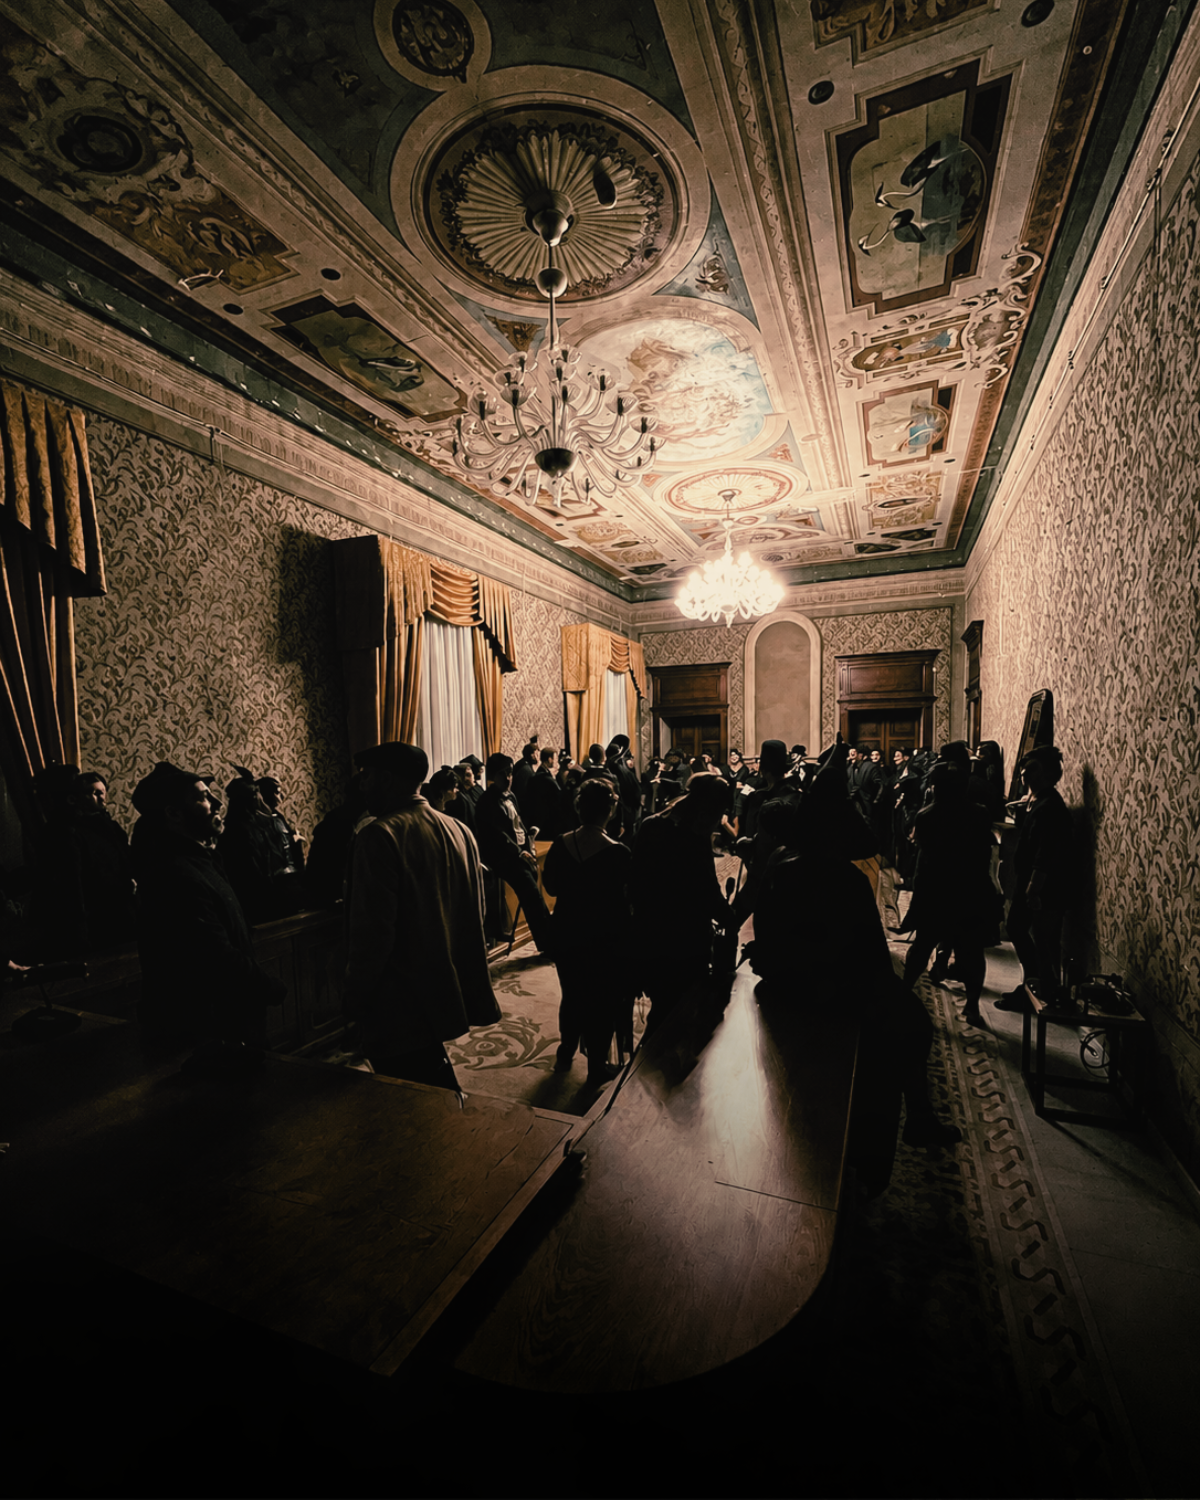
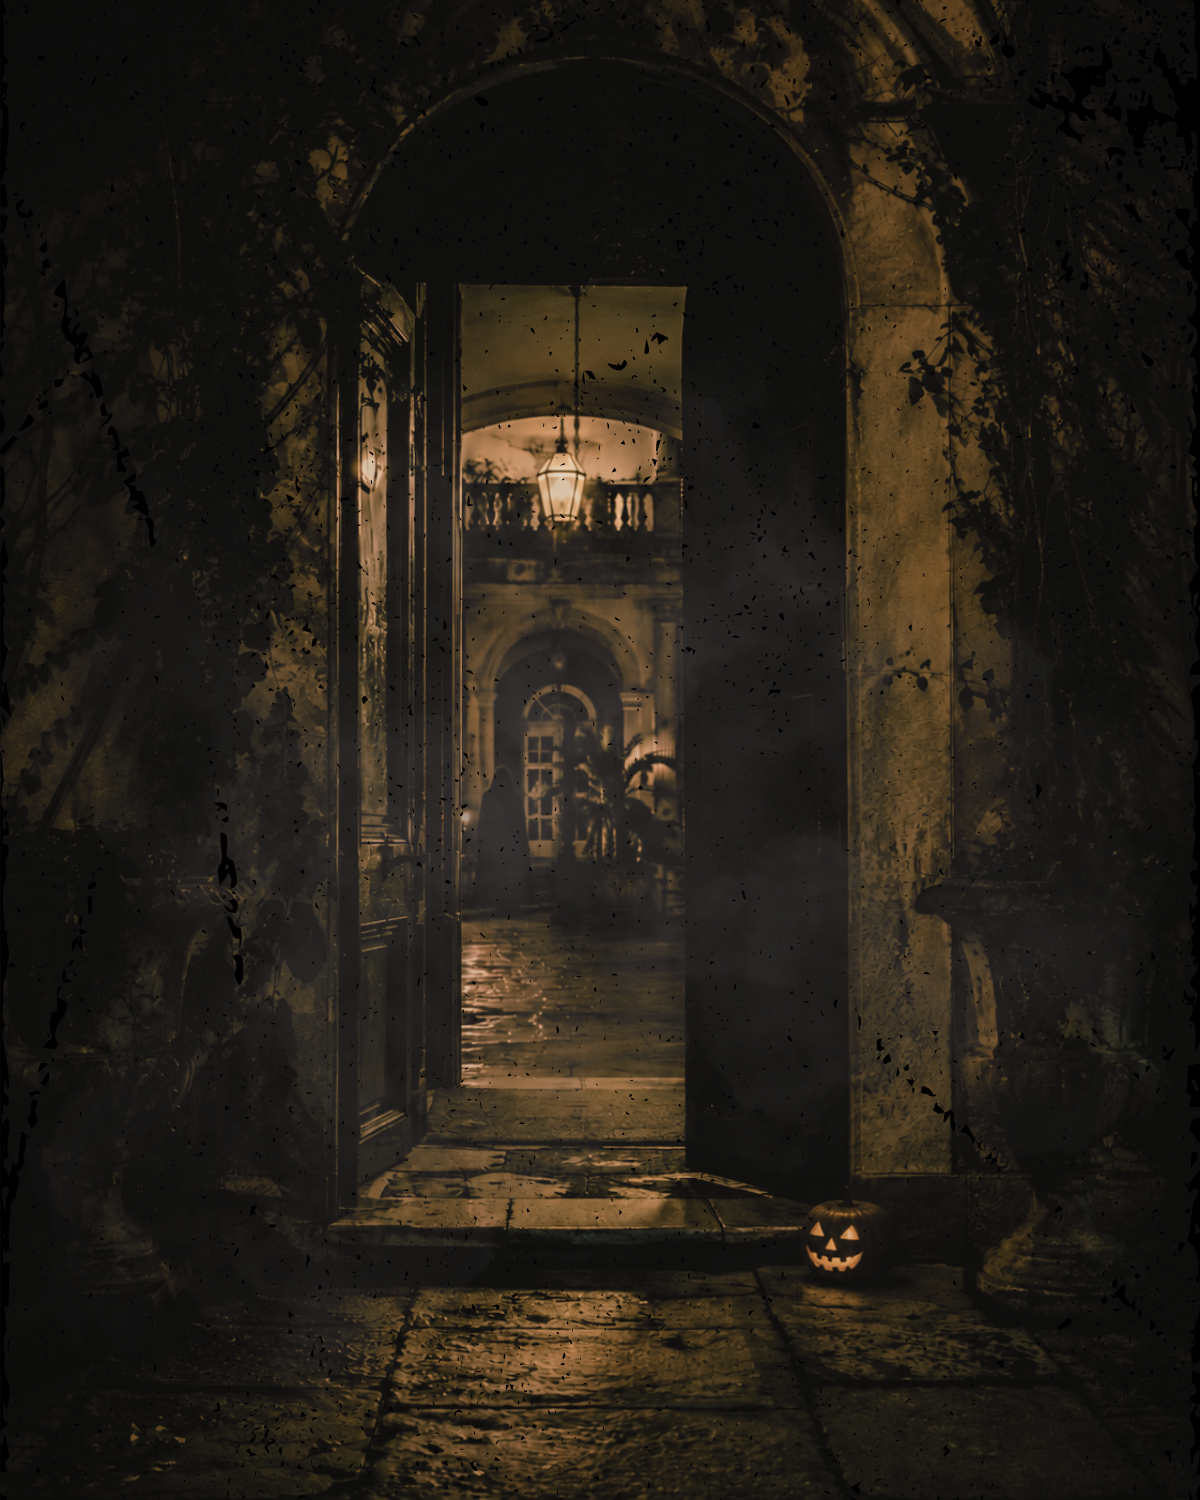
Progetti: contenuti reali per le 4 card, badge rimosso, nuovo testo intro
- Badge "Progetto 0X" rimosso da ogni foto (era solo overlay assoluto,
  categoria/luogo/anno sono già nel sottotitolo di ciascuna card — nessun
  aggiustamento di layout necessario)
- Nuovo paragrafo introduttivo della sezione, frasi brevi isolate ("Ma con
  metodo.", "Poi arriva il gioco.") mantenute come <p> a sé
- Contenuti reali per tutte e 4 le card (titolo/sottotitolo/descrizione +
  foto):
  · The Orphanage — escape room temporanea, Cagliari 2018
  · Apocalypse — action game nei bunker della Seconda guerra mondiale,
    Pula 2025
  · Topolino e i Giganti di Mont'e Prama — escape game per famiglie,
    Cabras 2026 (titolo più lungo: clamp del font-size abbassato
    leggermente su tutte e 3 le card dello staircase per uniformità,
    verificato senza overflow su 3 breakpoint)
  · Black Lotus — LARP a Palazzo Doglio, Cagliari 2025 (card isolata)
- Progetto 04: aspect ratio corretto da 16/10 a 3/2 per matchare il
  rapporto nativo della foto fornita, evitando un ritaglio non necessario
- File rinominato Progetto4.jpg → progetto4.jpg per coerenza con gli altri

diff --git a/app/components/Projects.tsx b/app/components/Projects.tsx
@@ -4,44 +4,79 @@ import Reveal from './Reveal'
 interface Project {
   index: string
   aspect: string
-  photoLabel: string
+  src: string
+  label: string
+  title: string
+  subtitle: string
+  description: string
   matted?: boolean
 }
 
-// Titolo/categoria/descrizione sono segnaposto letterali (come nel
-// riferimento v2): non abbiamo ancora progetti reali da mostrare qui, e
-// CLAUDE.md vieta di inventare contenuti — una pagina dedicata arriverà
-// per ciascun progetto quando ci sarà una prima scheda reale.
 const PROJECTS: Project[] = [
-  { index: '01', aspect: '3 / 4', photoLabel: 'progetto 01' },
-  { index: '02', aspect: '1 / 1', photoLabel: 'progetto 02', matted: true },
-  { index: '03', aspect: '4 / 5', photoLabel: 'progetto 03' },
+  {
+    index: '01',
+    aspect: '3 / 4',
+    src: '/foto/progetto1.png',
+    label: "The Orphanage, interno dell'escape room temporanea",
+    title: 'The Orphanage',
+    subtitle: 'Escape room temporanea · Cagliari · 2018',
+    description:
+      "Doveva essere una casa maledetta. Poi abbiamo visto la struttura e abbiamo capito che era chiaramente un orfanotrofio. Ed è diventata l'esperienza escape più memorabile del nostro percorso.",
+  },
+  {
+    index: '02',
+    aspect: '1 / 1',
+    src: '/foto/progetto2.png',
+    label: 'Apocalypse, bunker militare della Seconda guerra mondiale a Pula',
+    title: 'Apocalypse',
+    subtitle: 'Action game immersivo · Pula · 2025',
+    description:
+      'Questa volta la scenografia esisteva già: veri bunker militari della Seconda guerra mondiale. Noi abbiamo aggiunto una storia, un gioco e qualche motivo in più per non sentirsi completamente tranquilli.',
+    matted: true,
+  },
+  {
+    index: '03',
+    aspect: '4 / 5',
+    src: '/foto/progetto3.png',
+    label: "Topolino e i Giganti di Mont'e Prama, materiali di gioco del festival a Cabras",
+    title: "Topolino e i Giganti di Mont'e Prama",
+    subtitle: 'Escape game narrativo per famiglie · Cabras · 2026',
+    description:
+      "Un fumetto amato da tutti, l'archeologia, un festival e famiglie trasformate in squadre di esploratori. Nel 2026 abbiamo reso giocabile una storia ambientata tra i viaggi nel tempo e misteri dei Giganti di Mont'e Prama.",
+  },
 ]
 
 // Il quarto progetto non si aggiunge alla fila delle prime 3 (diventerebbe
 // una griglia 4 colonne uniforme, o lascerebbe una scheda orfana a fine
 // riga): resta a parte, in formato editoriale orizzontale — stessa anatomia
-// scheda (foto/badge/titolo/categoria/descrizione/CTA), ma è lui stesso la
+// scheda (foto/titolo/categoria/descrizione/CTA), ma è lui stesso la
 // "rottura di ritmo" rispetto allo staircase 01-02-03, non un quarto tassello
-// che ci si infila dentro.
-const FEATURED_PROJECT: Project = { index: '04', aspect: '16 / 10', photoLabel: 'progetto 04' }
+// che ci si infila dentro. Aspect 3/2 (non 16/10): è il rapporto nativo
+// della foto fornita, per non ritagliarla inutilmente.
+const FEATURED_PROJECT: Project = {
+  index: '04',
+  aspect: '3 / 2',
+  src: '/foto/progetto4.jpg',
+  label: "Black Lotus, LARP a Palazzo Doglio",
+  title: 'Black Lotus',
+  subtitle: 'Live action role play · Cagliari · 2025',
+  description:
+    "Un LARP di 16 ore dentro un hotel di lusso, tra identità, segreti e alleanze poco raccomandabili. Per una sera, una notte e una mattina, Palazzo Doglio è diventato il teatro immersivo di giochi di potere e delitti irrisolti da 30 anni.",
+}
 
 /**
  * Doppia cornice brass — stesso linguaggio dei ritratti in AboutUs.tsx:
  * bordo esterno (con margine) + bordo interno via ImagePlaceholder
  * `framed`, non un trattamento nuovo. Estratto qui perché usato 2 volte
  * (staircase + Progetto 04) e per non farli divergere in futuro.
- * Il badge "Progetto 0X" resta pieno (leggibile su qualunque foto reale
- * arrivi in seguito, non solo sul placeholder scuro) ma prende un filo di
- * bordo brass per parlare la stessa lingua della cornice.
+ * Niente più badge "Progetto 0X": categoria/luogo/anno sono già nel
+ * sottotitolo di ogni scheda, il badge era ridondante (era solo un
+ * overlay assoluto, non strutturale — rimosso senza altri aggiustamenti).
  */
 function ProjectPhoto({ project }: { project: Project }) {
   return (
     <div className={`relative border border-brass-500/60 p-2 ${project.matted ? 'bg-paper-200' : ''}`}>
-      <ImagePlaceholder label={project.photoLabel} aspect={project.aspect} framed />
-      <div className="absolute top-2 left-2 border border-brass-500/50 bg-ink-900 px-3 py-1.5 font-almanac text-[11px] tracking-label text-paper-100">
-        Progetto {project.index}
-      </div>
+      <ImagePlaceholder label={project.label} src={project.src} aspect={project.aspect} framed />
     </div>
   )
 }
@@ -70,28 +105,28 @@ export default function Projects() {
               <em className="text-brass-500 italic">Sono probabilmente quelle che ci piacciono di più.</em>
             </p>
           </Reveal>
+          {/* Frasi brevi isolate ("Ma con metodo.", "Poi arriva il gioco.")
+              come <p> a sé, non fuse con le vicine: è un effetto di ritmo
+              voluto, non un refuso di formattazione. */}
           <Reveal delayMs={240} className="flex flex-col gap-3">
+            <p className="text-pretty text-body text-ink-700">Da lì, generalmente, la situazione degenera.</p>
+            <p className="text-pretty text-body text-ink-700">Ma con metodo.</p>
             <p className="text-pretty text-body text-ink-700">
-              In questi anni abbiamo progettato esperienze dentro luoghi culturali e siti archeologici, eventi per
-              aziende e istituzioni, giochi territoriali, produzioni immersive, attività per centinaia di
-              partecipanti e strani esperimenti che inizialmente esistevano soltanto sotto forma di una frase:
-            </p>
-            <p className="font-body text-[clamp(1.3125rem,1.1rem+0.6vw,1.6875rem)] text-brass-500 italic">
-              &quot;E se facessimo…?&quot;
-            </p>
-            <p className="text-pretty text-body text-ink-700">
-              Da lì, generalmente, la situazione degenera.
-              <br />
-              Per fortuna.
+              Negli anni abbiamo imparato che le idee migliori non nascono ignorando regole e vincoli, ma trovando il
+              modo di giocarci insieme: rispettando spazi, persone, sicurezza, tempi, autorizzazioni e limiti di chi
+              ci affida un progetto.
             </p>
             <p className="text-pretty text-body text-ink-700">
-              Ogni progetto parte da qualcosa di diverso: un luogo, una storia, un pubblico, un obiettivo, una
-              comunità, a volte persino un problema.
-              <br />
-              Poi arriva il gioco.
-              <br />
-              Questi sono alcuni dei posti in cui ci ha portato.
+              Ogni esperienza nasce da qualcosa di diverso: raccontare un luogo o una storia, coinvolgere un
+              pubblico, raggiungere un obiettivo, costruire una comunità, a volte persino risolvere un problema.
             </p>
+            <p className="text-pretty text-body text-ink-700">Poi arriva il gioco.</p>
+            <p className="text-pretty text-body text-ink-700">
+              Se siamo riusciti ad organizzarlo in un sito archeologico, in un museo, in un parco naturalistico, in
+              un hotel di lusso, in un bunker, in barca, in spiaggia, per strada o dentro un&apos;azienda
+              blindatissima, probabilmente possiamo trovare il modo di farlo ovunque.
+            </p>
+            <p className="text-pretty text-body text-ink-700">Questi sono alcuni dei posti in cui ci ha portato.</p>
           </Reveal>
         </div>
 
@@ -99,13 +134,11 @@ export default function Projects() {
           {PROJECTS.map((project, i) => (
             <div key={project.index} className={i === 1 ? 'sm:mt-6' : i === 2 ? 'sm:mt-12' : ''}>
               <ProjectPhoto project={project} />
-              <h3 className="mt-4 font-display text-[clamp(1.25rem,1rem+0.6vw,1.625rem)] text-ink-900">
-                Titolo progetto
+              <h3 className="mt-4 text-pretty font-display text-[clamp(1.125rem,0.9rem+0.7vw,1.625rem)] leading-[1.15] text-ink-900">
+                {project.title}
               </h3>
-              <div className="mt-1 font-almanac text-[12px] tracking-label text-paper-400">
-                Categoria · luogo · anno
-              </div>
-              <p className="mt-2 text-base text-ink-700">Breve descrizione specifica del progetto.</p>
+              <div className="mt-1 font-almanac text-[12px] tracking-label text-paper-400">{project.subtitle}</div>
+              <p className="mt-2 text-base text-ink-700">{project.description}</p>
               <a
                 href="#progetti"
                 className="mt-3 inline-flex items-center gap-2 border-b border-brass-500/50 pb-1 font-almanac text-[13px] tracking-label text-brass-500 transition-colors duration-150 ease-out hover:border-ink-900 hover:text-ink-900"
@@ -123,11 +156,13 @@ export default function Projects() {
         <Reveal delayMs={360} className="mt-14 grid gap-6 border-t border-ink-900/15 pt-12 sm:grid-cols-2 sm:gap-10 lg:mt-16 lg:gap-16">
           <ProjectPhoto project={FEATURED_PROJECT} />
           <div className="flex flex-col justify-center">
-            <h3 className="font-display text-[clamp(1.25rem,1rem+0.6vw,1.625rem)] text-ink-900">Titolo progetto</h3>
+            <h3 className="font-display text-[clamp(1.25rem,1rem+0.6vw,1.625rem)] text-ink-900">
+              {FEATURED_PROJECT.title}
+            </h3>
             <div className="mt-1 font-almanac text-[12px] tracking-label text-paper-400">
-              Categoria · luogo · anno
+              {FEATURED_PROJECT.subtitle}
             </div>
-            <p className="mt-2 max-w-[46ch] text-base text-ink-700">Breve descrizione specifica del progetto.</p>
+            <p className="mt-2 max-w-[46ch] text-base text-ink-700">{FEATURED_PROJECT.description}</p>
             <a
               href="#progetti"
               className="mt-3 inline-flex items-center gap-2 self-start border-b border-brass-500/50 pb-1 font-almanac text-[13px] tracking-label text-brass-500 transition-colors duration-150 ease-out hover:border-ink-900 hover:text-ink-900"
